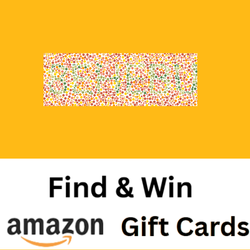
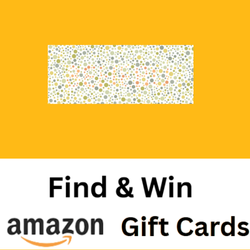
new

Changed region(s): [[0.168, 0.168, 0.812, 0.448]]

diff --git a/page5.html b/page5.html
@@ -12,17 +12,19 @@
   <div id="header"></div>
 
   <div class="gallery" id="galleryContainer">
+    <div class="page-block">
+    <h2 class="page-heading">Page 5</h2>
     <div class="image-block">
-      <div class="image-title">Gift Card No: 1234-xxxxx-5678</div>
-      <img src="https://www.hintsnap.in/images/card1.png" alt="Gift Card No: 1234-xxxxx-5678" />
+      <div class="image-title">Gift Card No: PBUW-XXXXXX-E4NT</div>
+      <img src="https://www.hintsnap.in/images/card9.png" alt="Gift Card No: PBUW-XXXXXX-E4NT" />
       <div class="image-description">Find The Missing Code In the image and win a prize upto 500. 
         <p>Hint: Missing code in above image.</p>
         <p>Redeem the gift card in amazon.</p>
       </div>
     </div>
     <div class="image-block">
-      <div class="image-title"> Gift Card No: 1254-xxxxx-5678</div>
-      <img src="https://www.hintsnap.in/images/card2.png" alt="Gift Card No: 1254-xxxxx-5678" />
+      <div class="image-title"> Gift Card No: KUBH-XXXXXX-HXBP</div>
+      <img src="https://www.hintsnap.in/images/card10.png" alt="Gift Card No: KUBH-XXXXXX-HXBP" />
       <div class="image-description">Find The Missing Code In the image and win a prize upto 500.
         <p>Hint: Missing code in above image.</p>
         <p>Redeem the gift card in amazon.</p>

diff --git a/page1.html b/page1.html
@@ -12,6 +12,8 @@
   <div id="header"></div>
 
   <div class="gallery" id="galleryContainer">
+    <div class="page-block">
+    <h2 class="page-heading">Page 1</h2>
     <div class="image-block">
       <div class="image-title">Gift Card No: 3FRR-6T6C3E-XXXX</div>
       <img src="https://www.hintsnap.in/images/card1.png" alt="Gift Card No: 3FRR-6T6C3E-XXXX" />

diff --git a/page2.html b/page2.html
@@ -12,6 +12,8 @@
   <div id="header"></div>
 
   <div class="gallery" id="galleryContainer">
+    <div class="page-block">
+    <h2 class="page-heading">Page 2</h2>
     <div class="image-block">
       <div class="image-title">Gift Card No: A3UX-BMRJAX-XXXX</div>
       <img src="https://www.hintsnap.in/images/card3.png" alt="Gift Card No: A3UX-BMRJAX-XXXX" />

diff --git a/page3.html b/page3.html
@@ -12,6 +12,8 @@
   <div id="header"></div>
 
   <div class="gallery" id="galleryContainer">
+    <div class="page-block">
+    <h2 class="page-heading">Page 3</h2>
     <div class="image-block">
       <div class="image-title">Gift Card No: G3PT-XXXXXX-NMYX</div>
       <img src="https://www.hintsnap.in/images/card5.png" alt="Gift Card No: A3UX-XXXXXX-BPQA" />

diff --git a/page4.html b/page4.html
@@ -12,6 +12,8 @@
   <div id="header"></div>
 
   <div class="gallery" id="galleryContainer">
+    <div class="page-block">
+    <h2 class="page-heading">Page 4</h2>
     <div class="image-block">
       <div class="image-title">Gift Card No: Y8B4-XXXXXX-V8NK</div>
       <img src="https://www.hintsnap.in/images/card7.png" alt="Gift Card No: Y8B4-XXXXXX-V8NK" />

diff --git a/assets/css/style1.css b/assets/css/style1.css
@@ -52,6 +52,13 @@ body {
   font-size: 0.9rem;
   color: #555;
 }
+.page-heading {
+  text-align: center;
+  font-size: 1.8rem;
+  margin: 40px 0 20px;
+  color: #ff4ecd;
+  font-weight: bold;
+}
 
 /* Pagination */
 .pagination {

diff --git a/assets/js/script1.js b/assets/js/script1.js
@@ -1,7 +1,7 @@
 
 
 const pagination = document.getElementById("pagination");
-  const totalPages = 15;
+  const totalPages = 10;
   const pagesPerSet = 3;
   let currentStart = 1;
 
